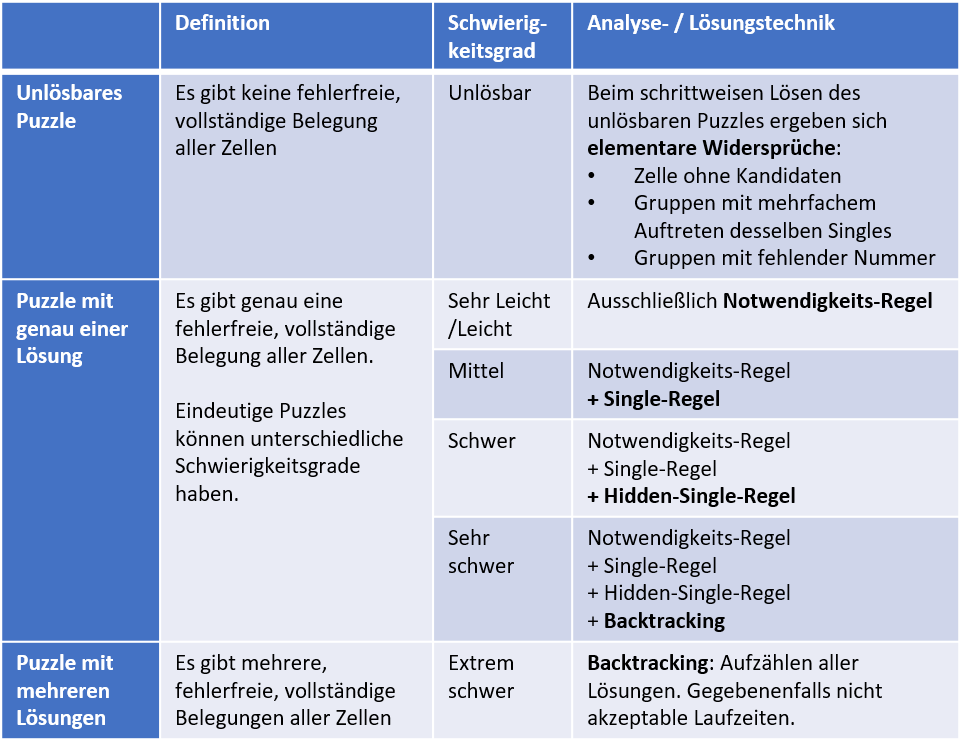
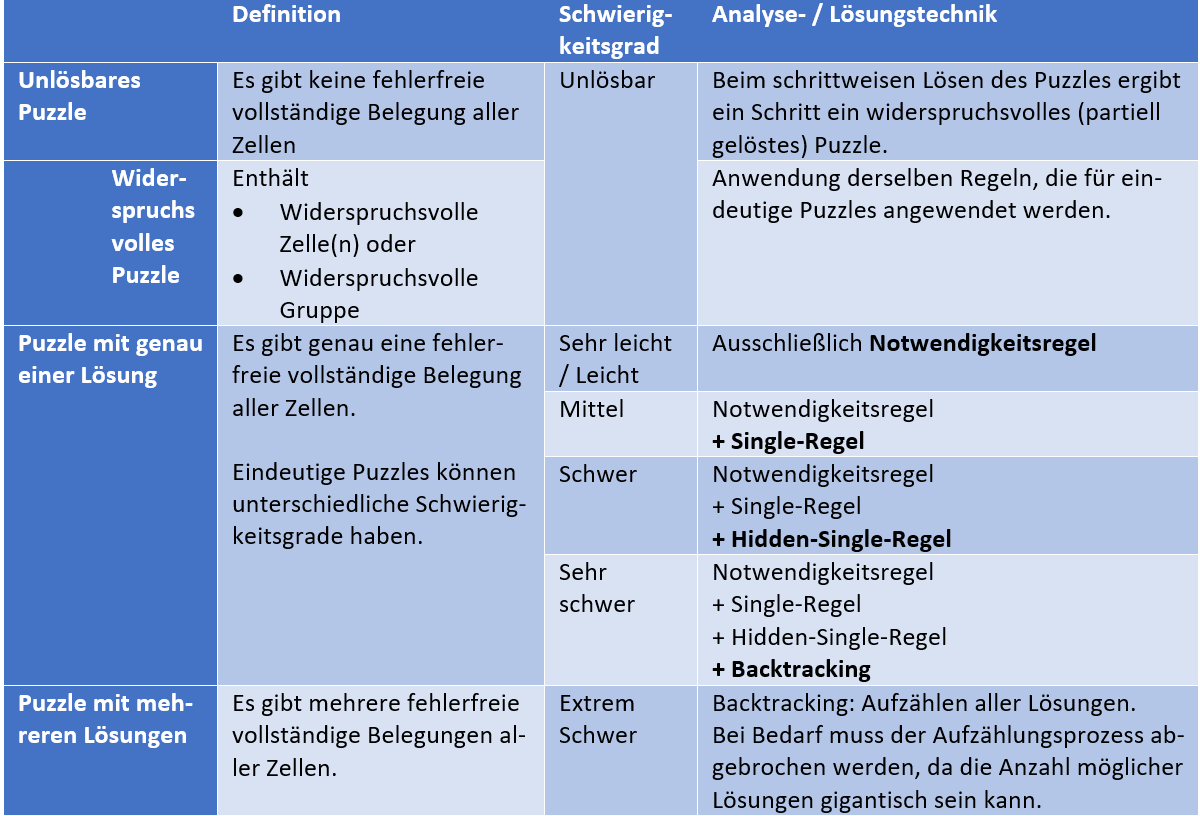
v1.9.70

diff --git a/sw.js b/sw.js
@@ -9,7 +9,7 @@ var APP_PREFIX = 'sudo_';
 // you need to change this version (version_01, version_02…). 
 // If you don't change the version, the service worker will give your
 // users the old files!
-var VERSION = 'version_1.9.69';
+var VERSION = 'version_1.9.70';
 
 // The files to make available for offline use. make sure to add 
 // others to this list

diff --git a/JS/sudokuCommon.js b/JS/sudokuCommon.js
@@ -1,5 +1,5 @@
 let sudoApp;
-let VERSION = 'v1.9.69';
+let VERSION = 'v1.9.70';
 
 // ==========================================
 // Basic classes
